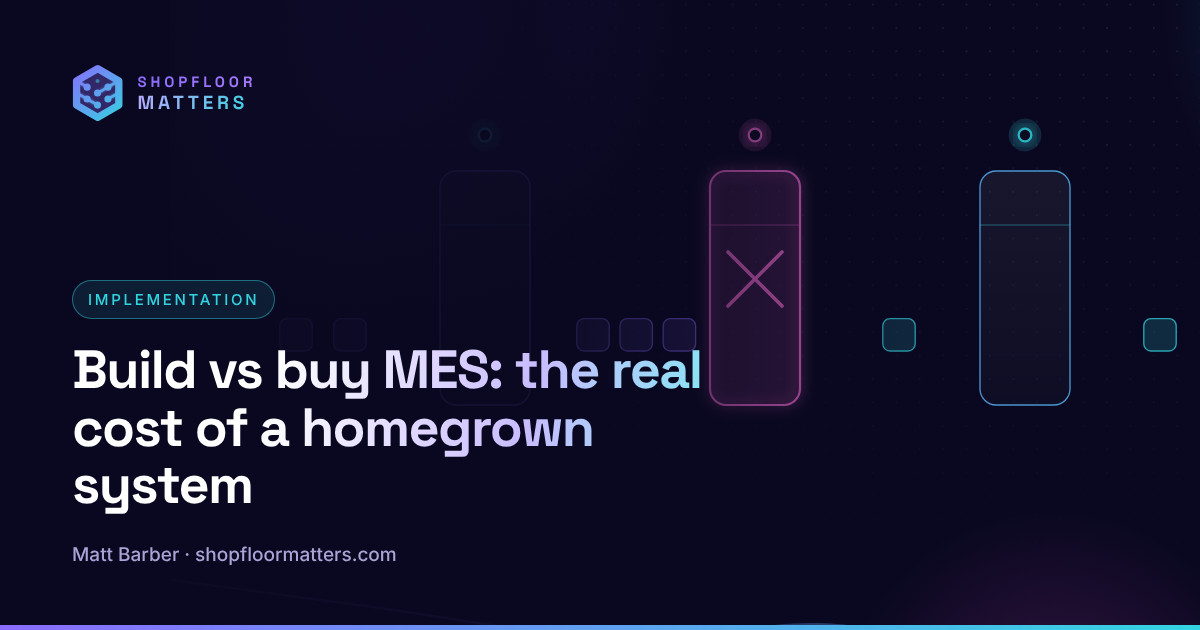
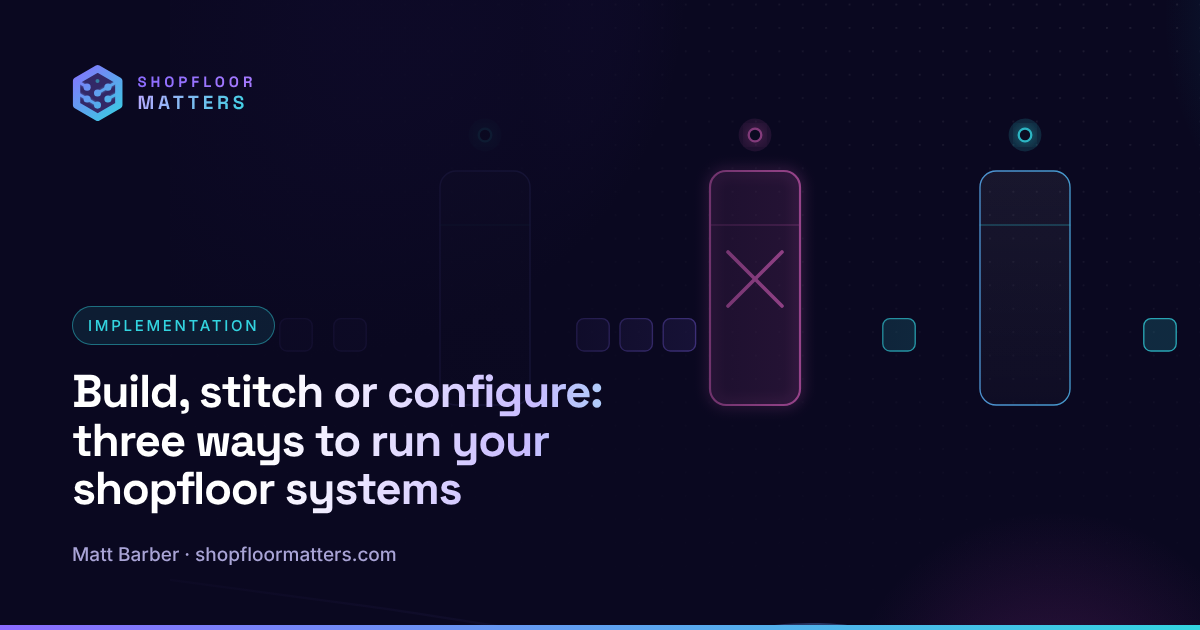
Make build, stitch and configure content more objective; remove UNS joke
Claude-Session: https://claude.ai/code/session_01Y4SNSUs71veJ37BenGhXFE

Changed region(s): [[0.0617, 0.4524, 0.5858, 0.8143]]

diff --git a/public/js/tools.js b/public/js/tools.js
@@ -209,7 +209,7 @@
       $('[data-ws-n]').textContent = picked.length;
       $('[data-ws-p]').textContent = probs.length;
       var inMom = picked.filter(function (c) { return /^MES\/MOM/.test(DATA.caps[c].where); }).length;
-      $('[data-ws-summary]').textContent = inMom >= 3 ? inMom + ' of these usually live in MES/MOM. That points towards one operational platform rather than a tool per problem.' : inMom ? inMom + ' of these usually live in MES/MOM, the rest in specialist systems connected to it.' : 'These mostly live in specialist systems. Plan how they connect to the shopfloor before you choose any of them.';
+      $('[data-ws-summary]').textContent = inMom >= 3 ? inMom + ' of these usually live in MES/MOM. With that much overlap, one operational platform is worth looking at first, with specialist tools where you need extra depth.' : inMom ? inMom + ' of these usually live in MES/MOM, the rest in specialist systems connected to it.' : 'These mostly live in specialist systems. Plan how they connect to the shopfloor before you choose any of them.';
       $('[data-ws-caps]').innerHTML = picked.map(function (c, i) {
         var C = DATA.caps[c];
         return '<article class="ws-cap' + (i < 3 ? ' top' : '') + '"><div class="ws-cap-h"><span class="ws-n">' + count[c] + '</span><div><h3>' + esc(C.name) + '</h3><span class="ws-where">' + esc(C.where) + '</span></div></div><p>' + esc(C.what) + '</p><p class="ws-from">Solves: ' + from[c].map(esc).join(' · ') + '</p>' + (C.post ? '<a href="' + url('/post/' + C.post.slug) + '">' + esc(C.post.title) + ' →</a>' : '') + '</article>';

diff --git a/content/posts/build-vs-buy-mes.md b/content/posts/build-vs-buy-mes.md
@@ -1,72 +1,114 @@
 ---
-title: "Build vs buy MES: the real cost of a homegrown system"
-short: "Build vs buy MES"
-description: "Building your own MES can look cheaper and more flexible. What it really costs over ten years, when building parts of it makes sense, and how to make the decision."
+title: "Build, stitch or configure: three ways to run your shopfloor systems"
+short: "Build, stitch or configure"
+description: "Building blocks you assemble yourself, best-of-breed applications stitched together, or a configurable platform. The honest advantages and drawbacks of each, and how to choose."
 published: 2026-08-26
 category: advice
 art: gates
 ---
 
-Every so often a manufacturer with a strong internal IT team asks me whether they should just build their own MES. They know their processes. They have good developers. Why pay a vendor?
+Every so often a manufacturer with a strong internal IT team asks me whether they should just build their own MES. Others ask whether they should buy the best tool for each job and connect them through a unified namespace. Others have already decided on a single platform and want to know how to choose one.
 
-I have a strong opinion on this, so let me be upfront. I think it's irresponsible to suggest that building a full MES/MOM platform from scratch is better or less risky than buying one. But the question deserves a proper answer, not just an opinion.
+They're all asking the same underlying question: what kind of shopfloor systems do we want to run for the next ten years?
 
-## Why building looks attractive
+There are broadly three answers. Each one has real advantages and real drawbacks, and I've seen all three work. I've also seen all three go wrong.
 
-The case for building usually goes like this:
+I'll be upfront about my own position before I start. I work for a vendor of the third kind, so weigh my view accordingly. I've tried to describe each approach the way its best advocates would.
 
-- **It fits exactly.** Built around your processes, with no features you don't need.
-- **No licence fees.** The developers are already on the payroll.
-- **Control.** No vendor roadmap to wait for, no vendor to depend on.
-- **Speed at the start.** A database, some screens and a couple of machine connections can be up in weeks.
+## 1. Build from building blocks
 
-All of that is true on day one. The problem is day 1,000.
+**What it is.** You assemble your own applications from components: low-code platforms, IIoT and data toolkits, databases, dashboards and your own code. The tools are flexible, but they're not a finished product. Your people design and build each application, then keep it running.
 
-## What happens over time
+**Where it works well:**
 
-Homegrown systems almost always start small and work well for a while. Then requirements grow. Quality needs connecting to production, inventory to quality, maintenance to downtime, tooling to all of them. Each addition is another project for the same small team.
+- **It fits exactly.** Every screen and rule is built around how you work, with nothing you don't need.
+- **Fast to start.** A narrow use case, such as a dashboard or a digital checklist, can be live in weeks.
+- **Control.** You decide what gets built and when, with no vendor roadmap to wait for.
+- **Low cost at first.** Licences for building-block tools are often modest, and the developers may already be on the payroll.
 
-Then the risks start to show:
+**What to watch:**
 
-- **Key-person dependency.** The person who built it becomes the single point of failure. Eventually they leave, and the knowledge goes with them.
-- **No upgrade path.** Operating systems and databases move on. Somebody has to keep the system compatible, on top of adding features.
-- **Security.** A system that sits between IT and OT needs to be maintained to a high standard, for its whole life.
-- **No roadmap.** AI, cloud, modern connectivity and mobile all have to be built in-house, competing with everything else on the team's list.
-- **Hidden cost.** The developers' time is real money. It just doesn't show up as a licence line.
+- **You own it forever.** Design, testing, documentation, security and upgrades are all yours, for the life of the system.
+- **Key-person dependency.** Knowledge sits with the people who built it. When they move on, it goes with them.
+- **Breadth arrives slowly.** Production, quality, inventory and maintenance each become a project. Connecting them properly is another.
+- **You design the data model.** Context only exists if someone models it and keeps it consistent as the applications grow.
 
-I cover what happens when companies finally replace these systems in [Replacing a homegrown MES](/post/replacing-a-homegrown-mes).
+**A typical example:** a plant with a capable digital team builds downtime tracking and a few digital forms on a low-code platform in a couple of months. It's genuinely useful. Two years later it covers five use cases, depends on two people, and every new request joins a queue.
+
+## 2. Stitch together best-of-breed applications
+
+**What it is.** You buy the best specialist tool for each job and connect them. An OEE tool, a quality system, a CMMS, a connected worker app, a scheduling tool. Increasingly they're joined through a unified namespace (UNS), where each application publishes what it knows and subscribes to what it needs.
+
+**Where it works well:**
+
+- **Depth where it matters.** Each department gets a tool that is very good at its job.
+- **Quick wins, one area at a time.** You can start where the pain is biggest without committing to everything at once.
+- **Freedom to swap.** If one tool disappoints, you can replace it without replacing everything.
+- **A UNS helps a lot.** Publishing to one structured place cuts point-to-point integrations and makes data far easier to find and reuse.
+
+**What to watch:**
+
+- **Every boundary is an interface.** Someone has to design it, monitor it and retest it whenever either side upgrades.
+- **Context thins out between systems.** You pass a subset of data across each boundary. The quality system knows a sample failed, but not necessarily what the machine was doing at the time.
+- **Data moves after the event.** Even a fast integration is one step behind a single system that records everything once.
+- **Operators juggle applications.** Several logins and several screens, often for one task.
+- **Someone has to own the architecture.** The UNS structure, the data model and the integrations are yours to design and govern.
+
+**A typical example:** a site buys a strong OEE tool, a separate quality app and a connected worker tool, each chosen by a different team. Each works well on its own. The work, and most of the value, then sits in connecting them so that a failed check, the order that was running, the material lot and the operator's sign-off all line up.
+
+## 3. Configure an out-of-the-box platform
+
+**What it is.** You buy an MES/MOM platform that already covers production, quality, inventory, maintenance and more on one data model, and you configure it to your processes rather than coding it. You extend it at the edges where you genuinely need to.
+
+**Where it works well:**
+
+- **The data is connected and contextualised from the start.** A downtime event, a quality result, a material consumption and an operator's sign-off all belong to the same order, in the same system.
+- **No integrations between shopfloor functions.** Production, quality, inventory and maintenance share one database, so nothing waits to be transferred.
+- **The vendor builds and maintains it.** Upgrades, security, new capabilities and AI arrive through the roadmap, paid for across many customers.
+- **Breadth is ready to switch on.** Start with one function and add the next without a new project to connect it.
+
+**What to watch:**
+
+- **Higher cost up front.** Licences and services show up on day one, even if the ten-year picture looks different.
+- **You adapt some processes.** Configuration covers a lot, but not everything. Some of your ways of working will change to fit the product.
+- **Depth varies by area.** In a niche function, a specialist tool may go deeper than the platform's module.
+- **You depend on a vendor.** Their roadmap and commercial health matter, so choose carefully. See [How to choose an MES](/post/how-to-choose-an-mes).
+
+**A typical example:** a manufacturer goes live with production and quality on one line, then switches on inventory and maintenance on the same platform the following year, without building an interface between them.
 
 ## Side by side
 
-| | Build | Buy |
-| --- | --- | --- |
-| **Fit on day one** | Exact | Close, through configuration |
-| **Cost on day one** | Lower, mostly internal time | Higher, licence and services |
-| **Cost over ten years** | Grows with every feature, upgrade and departure | More predictable, shared across many customers |
-| **Breadth** | Only what you've built | Production, quality, inventory, maintenance and more, ready to switch on |
-| **Upgrades and security** | Entirely your responsibility | Shared with the vendor |
-| **AI and new technology** | You build it | Part of the vendor's roadmap |
-| **Dependency** | On a few internal people | On a vendor, with a contract and support |
+| | Build from blocks | Stitch best-of-breed | Configure a platform |
+| --- | --- | --- | --- |
+| **Fit on day one** | Exact | Strong in each area | Close, through configuration |
+| **Cost on day one** | Lowest | Moderate, spread across tools | Highest |
+| **Cost over ten years** | Grows with every feature and departure | Grows with every interface and upgrade | Most predictable |
+| **Connected, contextualised data** | Only if you model it | Partly, across interfaces or a UNS | Built in |
+| **Integrations to maintain** | Yours, between everything you build | One per boundary, or UNS governance | Mainly to ERP, PLM and equipment |
+| **Upgrades and security** | All yours | Spread across several vendors | Mostly the vendor's |
+| **Who you depend on** | A few internal people | Several vendors, plus your integrators | One vendor |
 
-## When building does make sense
+## Most factories end up with a mix
 
-I'm not saying never write code. Building makes sense for:
+In practice very few factories are purely one type. A common and sensible pattern is a platform as the operational backbone, specialist systems where depth genuinely matters, a UNS or integration layer to connect it all to the wider business, and some building at the edges for the things that really are unique.
 
-- **Extensions on a bought platform.** Low-code tools and supported extension points let you add genuinely unique logic without forking the product. See [Configure, don't customise](/post/configure-dont-customise).
-- **Integrations** with niche equipment or in-house systems.
-- **Analytics and reports** on top of the platform's data.
-- **A truly unique process** that no product covers, kept small and well documented.
+So the real question is which one you make the backbone.
 
-The pattern that works is buy the platform, build at the edges.
+## Where I land
+
+Having seen all three over a lot of projects, I think a configurable platform gives the most value over time for most manufacturers. All the data is connected and in context from the moment it's captured. There are no integrations between shopfloor functions to build or maintain, and nothing waits to be transferred. And you're not building and maintaining it yourself for ten years. The vendor does that, across many customers.
+
+That's a view, not a law. A strong digital team with a narrow scope can do very well building from blocks. A site with good specialist tools already in place, and the discipline to govern a UNS, can get a lot from stitching. What matters is choosing deliberately, with the ten-year cost in front of you.
 
 ## How to decide
 
-- What will this cost over ten years, including the people, not just over the first project?
-- Who maintains it when the original developers move on?
-- How will it keep up with security patches and platform changes?
+- What will each option cost over ten years, including your own people, not just the first project?
+- Who maintains it when the original team moves on?
+- How much of the value depends on data from different functions lining up in real time?
+- How many interfaces will you own, and who will monitor them?
+- Is your process really unique, or does it just feel that way? See [Configure, don't customise](/post/configure-dont-customise).
 - How will you add AI and new capabilities, and who will build them?
-- Is your process really unique, or does it just feel that way? Most manufacturing processes aren't.
 
-If you're already running a homegrown system, there's no shame in it. Many were built when the market had nothing suitable. The question is whether it's still the right foundation for the next ten years.
+If you're already running a homegrown system, there's no shame in it. Many were built when the market had nothing suitable. I cover what changes when you replace one in [Replacing a homegrown MES](/post/replacing-a-homegrown-mes).
 
-Have you built your own, and would you do it again?
+Which of the three is your backbone today, and is it the one you'd choose again?

diff --git a/content/posts/connected-worker-one-app-not-five.md b/content/posts/connected-worker-one-app-not-five.md
@@ -80,9 +80,9 @@ I'm not telling you to skip the quick wins. Connected worker is often the best p
 
 The question is what you start *on*.
 
-If you buy standalone, you get quick wins. Then you hit the ceiling, and you're either replacing the tool or integrating it with something deeper. Your operators pay the price either way.
+A standalone connected worker app gets you quick wins, often faster than anything else. Some factories run them well for years, especially alongside a unified namespace that connects them to the rest of the stack. The trade-off comes later: as you need checklists to know the order and the machine, or skills to block an action, the app has to be integrated with something deeper, and every boundary is an interface to own.
 
-If you choose an MES/MOM with connected worker built in, you get the same quick wins on day one, on a platform that grows with you into production, quality, inventory and maintenance. One system, one data model.
+An MES/MOM with connected worker built in gives you similar quick wins on day one, on a platform that grows into production, quality, inventory and maintenance. One system, one data model, with nothing to stitch together. In my experience that's where the most value ends up, but it's a choice to make with your eyes open. I compare the options in [Build, stitch or configure](/post/build-vs-buy-mes).
 
 Start with the end in mind. Connected worker is the front door. MOM is the house behind it. Make sure you're buying a door that's attached to a house.
 
@@ -90,13 +90,13 @@ Start with the end in mind. Connected worker is the front door. MOM is the house
 
 The connected worker market is full of lightweight tools that look brilliant in a demo. Nice mobile screens, quick to configure, an easy sell to a frustrated operations manager.
 
-Be wary of choosing a point solution that solves today's problem and creates tomorrow's headache. Ask any vendor:
+Before you choose, think past today's problem. Ask any vendor:
 
 - What happens when we need production execution and quality on the same screen?
 - How does a checklist know which order, material and machine it relates to?
 - Can skills block an action, or only report on it?
 - If we add your MES/MOM modules later, is it the same data model or another integration?
 
-The answers will tell you very quickly whether you're buying a platform or a stop-gap.
+The answers will tell you quickly how far the tool will take you, and what connecting it will cost.
 
 Have you implemented a standalone connected worker tool and then needed MES/MOM on top? I'd genuinely like to hear how that went.

diff --git a/content/posts/shopfloor-applications-explained.md b/content/posts/shopfloor-applications-explained.md
@@ -1,7 +1,7 @@
 ---
 title: "Shopfloor applications explained: what each one does and which problem it solves"
 short: "Shopfloor applications explained"
-description: "Production execution, quality, inventory, maintenance, tooling, energy, connected worker and AI. What each shopfloor application does, the problem it solves, and why they work best on one platform."
+description: "Production execution, quality, inventory, maintenance, tooling, energy, connected worker and AI. What each shopfloor application does, the problem it solves, and the trade-offs between one platform and several."
 published: 2026-10-14
 category: education
 art: hexgrid
@@ -101,8 +101,10 @@ Every one of these depends on the applications above. AI needs the order, the ma
 
 You can buy most of these as separate products. An OEE tool here, a checklist app there, a standalone quality system, a CMMS.
 
-Each one solves its own problem. Then the problems start to overlap. Quality needs to know what's running. Inventory needs to know whether a lot passed inspection. Maintenance needs production's downtime. The operator needs one screen, not five logins. Every boundary becomes an integration to build and retest, and context gets lost at each one.
+That has real advantages. Each department gets a tool that's very good at its job, and you can start where the pain is biggest. A unified namespace makes connecting them far easier than it used to be.
 
-That's why I'd pick the problem that hurts most, but solve it on a platform that can grow into the rest. Start small, with the end in mind. The full argument is in [Six technology mistakes that sink smart factory projects](/post/smart-factory-technology-mistakes).
+The trade-off shows up as the problems overlap. Quality needs to know what's running. Inventory needs to know whether a lot passed inspection. Maintenance needs production's downtime. The operator needs one screen, not five logins. Every boundary becomes an interface to own and retest, and some context gets lost at each one.
+
+On one platform those overlaps are already handled, because everything shares the same data model. That's why my own preference is to pick the problem that hurts most, and solve it on a platform that can grow into the rest. I set out all three approaches, including building your own, in [Build, stitch or configure](/post/build-vs-buy-mes).
 
 Which row of that table describes your biggest problem right now?

diff --git a/content/posts/smart-factory-technology-mistakes.md b/content/posts/smart-factory-technology-mistakes.md
@@ -23,7 +23,7 @@ MES/MOM exists precisely to sit between ERP and the shopfloor. Use it. And if it
 
 I have a strong opinion on this one.
 
-It's irresponsible to suggest that building an entire MES/MOM platform from scratch is better, faster or less risky than buying one. Homegrown systems start small. Someone builds a database, adds some screens, connects a couple of machines. It works, for a while.
+Building your own applications from building blocks can work well for a narrow scope and a strong team. Building an entire MES/MOM platform that way is a much bigger commitment than it looks. Homegrown systems start small. Someone builds a database, adds some screens, connects a couple of machines. It works, for a while.
 
 Then requirements grow. The person who built it becomes the single point of failure. Eventually, they leave. No vendor support, no upgrade path, no roadmap. When it breaks, you're on your own. I cover replacing them in [Replacing a homegrown MES](/post/replacing-a-homegrown-mes).
 
@@ -33,7 +33,7 @@ Too many people start with something small to fill a gap: an OEE tool, a checkli
 
 It solves the immediate problem. Then requirements grow. You need quality connected to production, inventory connected to quality, maintenance connected to downtime. The point solution can't do it.
 
-Now you're either replacing it, wasting the original investment, or bolting on more point solutions and creating an integration mess. Start with the end in mind. Choose a platform that can grow with you, even if you only use part of it on day one.
+Now you're either replacing it, or adding more tools and connecting them. Stitching best-of-breed applications together can work, especially with a well-governed unified namespace, but every boundary is an interface to own and some context is lost at each one. Start with the end in mind. Whichever route you take, know how it grows, and what connecting the pieces will cost. I compare the options in [Build, stitch or configure](/post/build-vs-buy-mes).
 
 ## 4. Over-customising
 

diff --git a/content/posts/configure-dont-customise.md b/content/posts/configure-dont-customise.md
@@ -9,6 +9,8 @@ art: hexcore
 
 I see the same confusion every day when people talk about MES customisation.
 
+This article is about making a bought platform fit. If you're weighing that against building your own from building blocks, or stitching specialist tools together, I compare the three in [Build, stitch or configure](/post/build-vs-buy-mes).
+
 Everyone wants a system that "fits our processes". Vendors say their product is "fully flexible". And nobody defines what they mean. So let me break it down.
 
 ## The six levels
@@ -41,11 +43,11 @@ So you have a choice. Adapt to the system, have the system adapt to you, or a mi
 
 ## How to keep customisation down
 
-**Pick a mature, configurable platform from the start.** The more you can achieve through configuration, the less you'll need to customise. But be realistic: you won't remove customisation completely, especially for integrations with third-party software.
+**If you're buying a platform, pick a mature, configurable one.** The more you can achieve through configuration, the less you'll need to customise. But be realistic: you won't remove customisation completely, especially for integrations with third-party software.
 
 **Assess every gap with an open mind.** For each point where you'd need to deviate from how the software works, ask: is this business-critical and must work exactly as before? Or could a process change or some training close the gap, so we use the software the standard way?
 
-**Adopt best practice.** A mature MES/MOM is built around what works across hundreds of factories. Insisting on your way regardless isn't smart. It's stubborn.
+**Adopt best practice.** A mature MES/MOM is built around what works across hundreds of factories. Insisting on your own way for everything usually costs more than it returns.
 
 **Have strong project management on both sides.** Vendor and manufacturer. Someone needs to say no, politely and often, to requests that recreate the old system in the new one.
 

diff --git a/content/posts/contextualised-manufacturing-data.md b/content/posts/contextualised-manufacturing-data.md
@@ -1,7 +1,7 @@
 ---
 title: "Raw machine data is worthless. Context is what makes it useful"
 short: "Contextualised data"
-description: "A machine signal that says 'stopped' tells you nothing. How MES/MOM turns raw data into contextualised information, and why point solutions lose that context."
+description: "A machine signal that says 'stopped' tells you nothing. How MES/MOM turns raw data into contextualised information, and where context gets lost between systems."
 published: 2026-05-07
 category: thought-leadership
 art: flow2
@@ -49,7 +49,7 @@ On the shopfloor, context comes from the system that knows what's *supposed* to 
 
 That's [MES/MOM](/post/what-is-mes-and-why-is-it-important-in-manufacturing). It's the central hub of contextualised operational data, sitting between ERP above and the machines below. It takes the raw signal and attaches everything around it.
 
-## Why point solutions lose context
+## Where context gets lost
 
 This is where I get opinionated.
 
@@ -64,7 +64,7 @@ When those live in one application, every piece of data carries all of that cont
 
 When they're spread across separate systems and integrated, you lose some of it at every boundary. You can't pass everything through an integration, so you pass a subset. The quality system knows a sample failed, but not what the machine was doing. The CMMS knows a fault was logged, but not that the line was mid-changeover.
 
-Integrating siloed applications always loses context. That's not a criticism of integration. It's just physics.
+Integrating separate applications nearly always loses some context. A well-designed unified namespace or integration layer can carry more of it, but someone has to model that context and keep it consistent. In a single platform it's there by default. I compare the approaches in [Build, stitch or configure](/post/build-vs-buy-mes).
 
 ## Context is what AI really needs
 

diff --git a/content/posts/smart-manufacturing-myths.md b/content/posts/smart-manufacturing-myths.md
@@ -61,9 +61,9 @@ What may be unique are your *business* processes around manufacturing. Most "we'
 
 ## 8. "We'll build our own"
 
-For a very small manufacturer with capable technical people, a homegrown system can work for a while. It very quickly runs out of steam.
+For a small manufacturer with capable technical people, or a narrow scope, a homegrown system can work well for a while. As requirements grow, it often runs out of steam.
 
-Requirements grow. The person who built it becomes the single point of failure, and eventually they leave. No vendor support, no upgrade path, no roadmap. I've replaced a lot of homegrown systems, and the hidden costs are always higher than anyone expected. See [Replacing a homegrown MES](/post/replacing-a-homegrown-mes).
+Requirements grow. The person who built it becomes the single point of failure, and eventually they leave. No vendor support, no upgrade path, no roadmap. I've seen a lot of homegrown systems replaced, and the hidden costs are usually higher than anyone expected. I compare building, stitching and configuring in [Build, stitch or configure](/post/build-vs-buy-mes).
 
 ## A bonus one: "MES and MOM are just two names for the same thing"
 

diff --git a/content/posts/smart-factory-glossary.md b/content/posts/smart-factory-glossary.md
@@ -7,7 +7,7 @@ category: education
 art: tiles
 ---
 
-Manufacturing is full of jargon. This glossary explains the terms you'll hear most in smart factory projects, in a line or two each. Bookmark it and come back when someone in a meeting says "UNS" with a straight face.
+Manufacturing is full of jargon. This glossary explains the terms you'll hear most in smart factory projects, in a line or two each. Bookmark it and come back whenever a term comes up that you want to pin down.
 
 Every term also has its own page, with my take on what it means in practice and the articles that go deeper, in the [full glossary](/glossary/).
 

diff --git a/content/posts/opc-ua-mqtt-uns-explained.md b/content/posts/opc-ua-mqtt-uns-explained.md
@@ -36,7 +36,7 @@ A unified namespace is an architectural idea rather than a product. All operatio
 
 Systems publish what they know and subscribe to what they need, instead of every system integrating point-to-point with every other.
 
-Done well, it reduces integration spaghetti and makes data easier to find and reuse. Done badly, it's a very big pile of tags with no context.
+Done well, it reduces point-to-point integrations and makes data easier to find and reuse. It needs a clear structure and someone to govern it, so the context travels with the data rather than a long list of tags.
 
 ## Where MES/MOM fits
 
